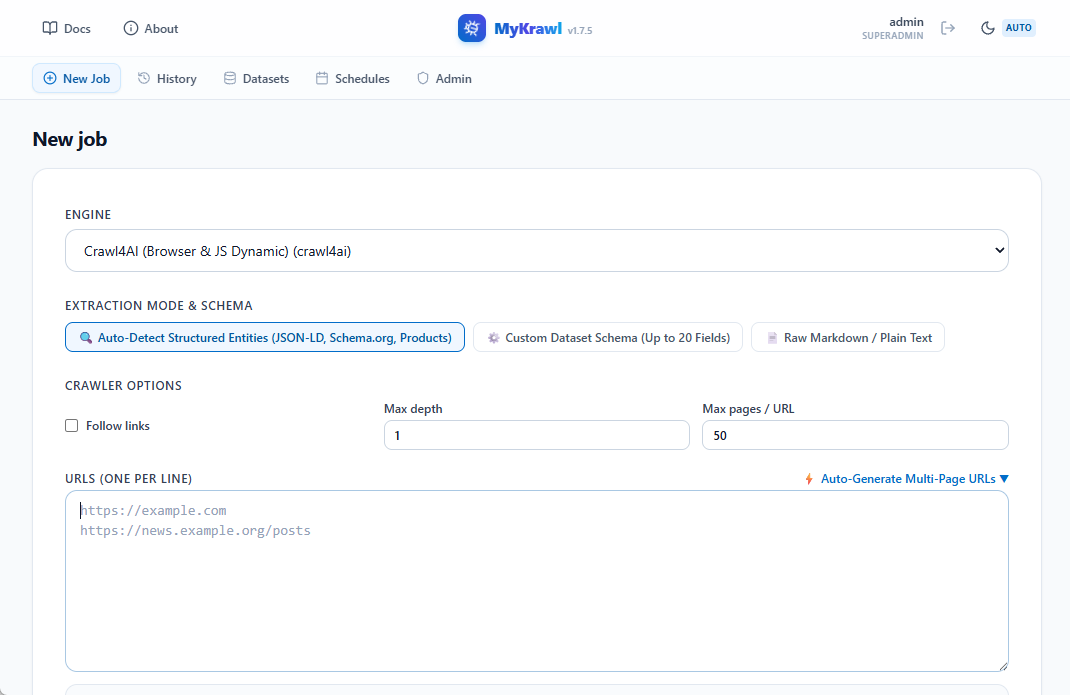
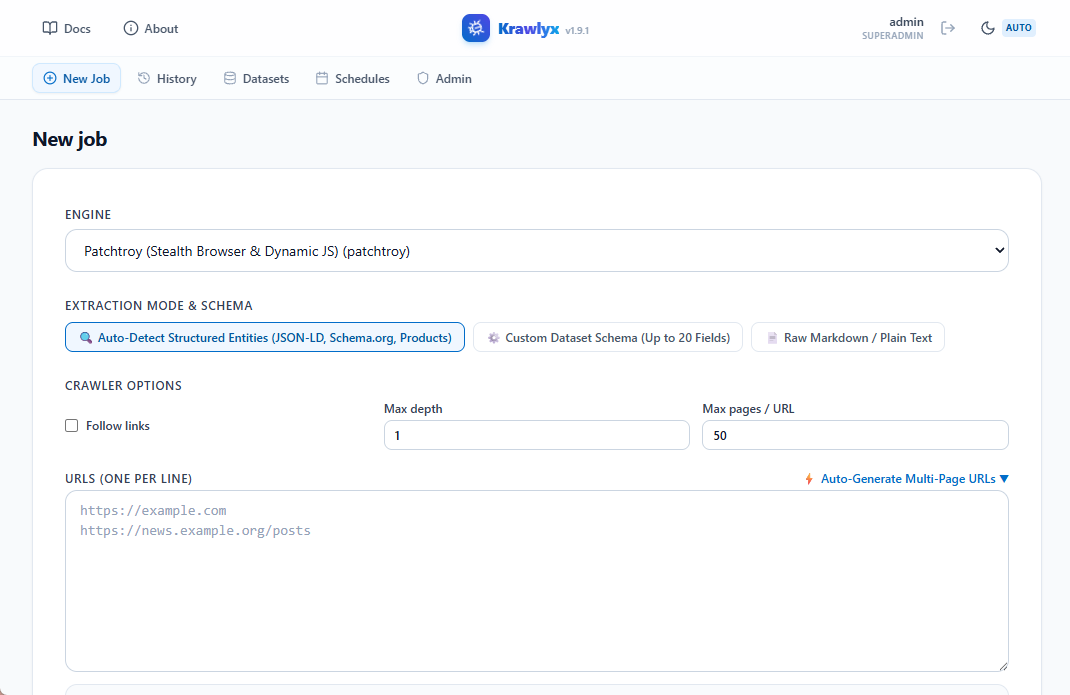
v1.9.1-260902c feat(core): rename database to krawlyx.db, complete branding, and update UI showcase gallery

Changed region(s): [[0.0925, 0.3324, 0.3701, 0.3928], [0.4009, 0.0302, 0.5551, 0.0604]]

diff --git a/frontend/src/components/DatabaseBrowser.tsx b/frontend/src/components/DatabaseBrowser.tsx
@@ -254,7 +254,7 @@ export function DatabaseBrowser() {
               SQLite Database Browser & Engine Terminal
             </h2>
             <p className="text-xs text-slate-600 dark:text-slate-400 mt-0.5 font-mono">
-              {stats?.db_path || 'data/mykrawl.db'}
+              {stats?.db_path || 'data/krawlyx.db'}
             </p>
           </div>
 

diff --git a/scripts/reset_admin_password.py b/scripts/reset_admin_password.py
@@ -1,6 +1,6 @@
 #!/usr/bin/env python3
 """
-MyKrawl SuperAdmin Password Reset Utility
+Krawlyx SuperAdmin Password Reset Utility
 ==========================================
 Emergency tool to reset the password and restore SuperAdmin privileges for the 'admin' account.
 
@@ -30,7 +30,7 @@ def reset_password(username: str, new_password: str | None = None) -> None:
         from app.core.security import hash_password
         from app.models.user import User
     except ImportError as e:
-        print(f"❌ Error importing MyKrawl backend modules: {e}")
+        print(f"❌ Error importing Krawlyx backend modules: {e}")
         print("Please ensure your virtual environment is active: source backend/.venv/bin/activate")
         sys.exit(1)
 
@@ -70,7 +70,7 @@ def reset_password(username: str, new_password: str | None = None) -> None:
 
 
 def main():
-    parser = argparse.ArgumentParser(description="Reset MyKrawl SuperAdmin password.")
+    parser = argparse.ArgumentParser(description="Reset Krawlyx SuperAdmin password.")
     parser.add_argument("password", nargs="?", default=None, help="New password (optional; prompted if omitted)")
     parser.add_argument("--username", default="admin", help="Username to reset (default: 'admin')")
     args = parser.parse_args()

diff --git a/backend/scripts/reset_admin_password.py b/backend/scripts/reset_admin_password.py
@@ -1,6 +1,6 @@
 #!/usr/bin/env python3
 """
-MyKrawl SuperAdmin Password Reset Utility
+Krawlyx SuperAdmin Password Reset Utility
 ==========================================
 Emergency tool to reset the password and restore SuperAdmin privileges for the 'admin' account.
 
@@ -30,7 +30,7 @@ def reset_password(username: str, new_password: str | None = None) -> None:
         from app.core.security import hash_password
         from app.models.user import User
     except ImportError as e:
-        print(f"❌ Error importing MyKrawl backend modules: {e}")
+        print(f"❌ Error importing Krawlyx backend modules: {e}")
         print("Please ensure your virtual environment is active: source backend/.venv/bin/activate")
         sys.exit(1)
 
@@ -76,7 +76,7 @@ def reset_password(username: str, new_password: str | None = None) -> None:
 
 
 def main():
-    parser = argparse.ArgumentParser(description="Reset MyKrawl SuperAdmin password.")
+    parser = argparse.ArgumentParser(description="Reset Krawlyx SuperAdmin password.")
     parser.add_argument(
         "password", nargs="?", default=None, help="New password (optional; prompted if omitted)"
     )

diff --git a/backend/app/core/config.py b/backend/app/core/config.py
@@ -21,7 +21,7 @@ class Settings(BaseSettings):
     app_name: str = "Krawlyx"
     # Required for any real deployment; the default keeps local dev frictionless.
     secret_key: str = "dev-insecure-secret-key"
-    db_path: Path = ROOT_DIR / "data" / "mykrawl.db"
+    db_path: Path = ROOT_DIR / "data" / "krawlyx.db"
     session_ttl_s: int = 60 * 60 * 12
     cookie_secure: bool = False
     admin_user: str | None = None
@@ -43,8 +43,8 @@ class Settings(BaseSettings):
     # is non-empty, only targets whose host matches an entry (suffix
     # match) are accepted. Empty list = block-by-default.
     ssrf_allow_list: list[str] = []
-    # NFR-05: identifiable User-Agent `MyKrawl/0.1 (+{admin_contact_email})`.
-    # Empty contact is allowed — the UA degrades to `MyKrawl/0.1`.
+    # NFR-05: identifiable User-Agent `Krawlyx/0.1 (+{admin_contact_email})`.
+    # Empty contact is allowed — the UA degrades to `Krawlyx/0.1`.
     admin_contact_email: str = ""
 
     @field_validator("ssrf_allow_list", mode="before")

diff --git a/backend/tests/test_exporters.py b/backend/tests/test_exporters.py
@@ -321,7 +321,7 @@ def test_endpoint_probe_writes_and_removes(tmp_path) -> None:
         body = r.json()
         assert body["ok"] is True
         # No probe files left behind.
-        assert not list(tmp_path.glob("MyKrawl_probe_*.txt"))
+        assert not list(tmp_path.glob("Krawlyx_probe_*.txt"))
 
 
 def test_endpoint_probe_reports_permission_failure(tmp_path) -> None:
@@ -340,9 +340,9 @@ def test_endpoint_probe_reports_permission_failure(tmp_path) -> None:
     from tests._helpers import auth_as
 
     if sys.platform == "win32":
-        bad_path = "Z:\\MyKrawl-bad-target\\exports"
+        bad_path = "Z:\\Krawlyx-bad-target\\exports"
     else:
-        bad_path = "/this/path/should/not/exist/MyKrawl-bad-target"
+        bad_path = "/this/path/should/not/exist/Krawlyx-bad-target"
 
     tid = _make_target("bad", path=bad_path, fmt="csv")
 

diff --git a/backend/app/exporters/exporter.py b/backend/app/exporters/exporter.py
@@ -104,7 +104,7 @@ class Exporter:
 
     @property
     def manifest_path(self) -> Path:
-        return self._dir / f"MyKrawl_{self._slug}_{self._ts}_manifest.json"
+        return self._dir / f"Krawlyx_{self._slug}_{self._ts}_manifest.json"
 
     @property
     def parts(self) -> list[Path]:
@@ -258,7 +258,7 @@ class Exporter:
     def _open_new_part(self) -> None:
         self._part_index += 1
         ext = self._fmt
-        filename = f"MyKrawl_{self._slug}_{self._ts}_part{self._part_index:03d}.{ext}"
+        filename = f"Krawlyx_{self._slug}_{self._ts}_part{self._part_index:03d}.{ext}"
         path = self._dir / filename
         try:
             self._writer = self._writer_factory()

diff --git a/backend/tests/test_scrapy_engine.py b/backend/tests/test_scrapy_engine.py
@@ -71,7 +71,7 @@ def test_scrapy_env_uses_configured_values() -> None:
     assert env["MYKRAWL_TARGET_URL"] == "https://example.com/"
     # M6: user_agent comes from the global Settings (NFR-05); engine
     # config user_agent is no longer echoed directly into the env.
-    assert env["MYKRAWL_USER_AGENT"] == "MyKrawl/0.1 via scrapy"
+    assert env["MYKRAWL_USER_AGENT"] == "Krawlyx/0.1 via scrapy"
     assert env["MYKRAWL_CONCURRENCY"] == "4"
     assert env["MYKRAWL_DOWNLOAD_DELAY"] == "1.0"  # M6: admin floor wins
     assert env["MYKRAWL_AUTOTHROTTLE"] == "0"

diff --git a/backend/app/api/export_targets.py b/backend/app/api/export_targets.py
@@ -188,9 +188,9 @@ def test_target(
     try:
         directory = Path(row.path).expanduser().resolve()
         directory.mkdir(parents=True, exist_ok=True)
-        probe = directory / f"MyKrawl_probe_{uuid.uuid4().hex[:8]}.txt"
+        probe = directory / f"Krawlyx_probe_{uuid.uuid4().hex[:8]}.txt"
         probe.write_text(
-            f"MyKrawl probe at {datetime.now(UTC).isoformat(timespec='seconds')}\n",
+            f"Krawlyx probe at {datetime.now(UTC).isoformat(timespec='seconds')}\n",
             encoding="utf-8",
         )
         probe.unlink()

diff --git a/backend/app/core/doctor.py b/backend/app/core/doctor.py
@@ -1,4 +1,4 @@
-"""Environment diagnostic for self-hosters (`python -m mykrawl.doctor`).
+"""Environment diagnostic for self-hosters (`python -m app.core.doctor`).
 
 Runs a short list of read-only checks and prints a one-screen report.
 Exits 0 when everything passes, 1 otherwise. The check list is
@@ -176,7 +176,7 @@ _CHECKS = [
 
 
 def run() -> int:
-    print("MyKrawl doctor")
+    print("Krawlyx doctor")
     print("=" * 40)
     failed = 0
     for fn in _CHECKS:

diff --git a/backend/tests/test_health.py b/backend/tests/test_health.py
@@ -13,5 +13,5 @@ def test_health_reports_status_and_version() -> None:
     assert resp.status_code == 200
     body = resp.json()
     assert body["status"] == "ok"
-    assert body["app"] == "MyKrawl"
+    assert body["app"] == "Krawlyx"
     assert body["version"].startswith("v")

diff --git a/backend/app/__init__.py b/backend/app/__init__.py
@@ -1,1 +1,1 @@
-"""MyKrawl backend application package."""
+"""Krawlyx backend application package."""

diff --git a/docs/0015-production-deployment-guide.md b/docs/0015-production-deployment-guide.md
@@ -13,8 +13,8 @@ This guide details how to deploy **Krawlyx** in production environments, includi
 ### 1-Command Deployment
 1. Clone the repository and navigate to the project root:
    ```bash
-   git clone https://github.com/marcuz-apl/MyKrawl.git
-   cd MyKrawl
+   git clone https://github.com/marcuz-apl/krawlyx.git
+   cd krawlyx
    ```
 2. Copy and configure the environment variables:
    ```bash
@@ -30,7 +30,7 @@ This guide details how to deploy **Krawlyx** in production environments, includi
 ### Inspecting Logs & Health
 ```bash
 # View live application logs
-docker compose logs -f mykrawl
+docker compose logs -f krawlyx
 
 # Check container health status
 docker compose ps
@@ -44,24 +44,24 @@ Deploying Krawlyx on Synology NAS provides automatic restarts, persistent storag
 
 ### Step 1: Storage Setup in File Station
 Create a directory structure on your storage pool:
-- `/volume1/docker/mykrawl`
-- `/volume1/docker/mykrawl/data` (holds `mykrawl.db` and exports)
+- `/volume1/docker/krawlyx`
+- `/volume1/docker/krawlyx/data` (holds `krawlyx.db` and exports)
 
 ### Step 2: Launch via Synology Container Manager
 1. Open **Container Manager** in DSM.
 2. Go to **Project** -> **Create**.
-3. Set Project Name: `mykrawl`.
-4. Path: `/docker/mykrawl`.
+3. Set Project Name: `krawlyx`.
+4. Path: `/docker/krawlyx`.
 5. Source: Select **Create docker-compose.yml** and paste the following:
 
 ```yaml
 services:
-  mykrawl:
+  krawlyx:
     build:
       context: .
       dockerfile: Dockerfile
-    image: mykrawl:latest
-    container_name: mykrawl
+    image: krawlyx:latest
+    container_name: krawlyx
     restart: unless-stopped
     ports:
       - "4040:4040"
@@ -94,7 +94,7 @@ To access Krawlyx securely over the internet without exposing raw ports:
    - **General Tab**:
      - **Source**:
        - Protocol: `HTTPS`
-       - Hostname: `mykrawl.your-domain.com` (or your Synology DDNS: `*.synology.me`)
+       - Hostname: `krawlyx.your-domain.com` (or your Synology DDNS: `*.synology.me`)
        - Port: `443`
        - Enable HSTS: Checked
      - **Destination**:
@@ -104,10 +104,10 @@ To access Krawlyx securely over the internet without exposing raw ports:
    - **Custom Header Tab**:
      - Click **Create** -> **WebSocket**.
      - This automatically adds `Upgrade: $http_upgrade` and `Connection: $connection_upgrade`, which is required for live crawl progress streaming and log views.
-3. Assign a free Let's Encrypt SSL Certificate to `mykrawl.your-domain.com` in **Security** -> **Certificate**.
+3. Assign a free Let's Encrypt SSL Certificate to `krawlyx.your-domain.com` in **Security** -> **Certificate**.
 
 ### Access URLs:
-- **Via HTTPS Reverse Proxy**: `https://mykrawl.your-domain.com`
+- **Via HTTPS Reverse Proxy**: `https://krawlyx.your-domain.com`
 - **Via Local Home Network (Direct LAN)**: `http://<SYNOLOGY_LOCAL_IP>:4040` (e.g. `http://192.168.1.100:4040`)
 
 ---
@@ -115,13 +115,13 @@ To access Krawlyx securely over the internet without exposing raw ports:
 ## 3. Docker Storage & Persistence
 
 The container maps the host directory `./data` to `/app/data`:
-- **`data/mykrawl.db`**: SQLite database storing jobs, schedules, users, and saved datasets.
+- **`data/krawlyx.db`**: SQLite database storing jobs, schedules, users, and saved datasets.
 - **`data/exports/`**: CSV and XLSX export files generated from crawls and datasets.
-- **WAL Journals**: SQLite Write-Ahead Log (`mykrawl.db-wal`) is automatically preserved.
+- **WAL Journals**: SQLite Write-Ahead Log (`krawlyx.db-wal`) is automatically preserved.
 - **Backup Command**:
   ```bash
   # Backup SQLite database cleanly while running:
-  sqlite3 data/mykrawl.db ".backup 'data/backup-$(date +%Y%m%d).db'"
+  sqlite3 data/krawlyx.db ".backup 'data/backup-$(date +%Y%m%d).db'"
   ```
 
 ---
@@ -148,7 +148,7 @@ For non-containerized Linux hosts:
    playwright install-deps chromium
    ```
 
-3. **Create Systemd Unit (`/etc/systemd/system/mykrawl.service`)**:
+3. **Create Systemd Unit (`/etc/systemd/system/krawlyx.service`)**:
    ```ini
    [Unit]
    Description=Krawlyx Web Scraping Workbench
@@ -157,9 +157,9 @@ For non-containerized Linux hosts:
    [Service]
    Type=simple
    User=www-data
-   WorkingDirectory=/var/www/MyKrawl/backend
-   EnvironmentFile=/var/www/MyKrawl/.env
-   ExecStart=/var/www/MyKrawl/backend/.venv/bin/uvicorn app.main:app --host 0.0.0.0 --port 4040
+   WorkingDirectory=/var/www/krawlyx/backend
+   EnvironmentFile=/var/www/krawlyx/.env
+   ExecStart=/var/www/krawlyx/backend/.venv/bin/uvicorn app.main:app --host 0.0.0.0 --port 4040
    Restart=always
    RestartSec=5
 
@@ -170,7 +170,7 @@ For non-containerized Linux hosts:
 4. **Enable & Start**:
    ```bash
    sudo systemctl daemon-reload
-   sudo systemctl enable --now mykrawl
+   sudo systemctl enable --now krawlyx
    ```
 
 ---
@@ -181,16 +181,16 @@ For non-containerized Linux hosts:
 ```nginx
 server {
     listen 80;
-    server_name mykrawl.example.com;
+    server_name krawlyx.example.com;
     return 301 https://$host$request_uri;
 }
 
 server {
     listen 443 ssl http2;
-    server_name mykrawl.example.com;
+    server_name krawlyx.example.com;
 
-    ssl_certificate /etc/letsencrypt/live/mykrawl.example.com/fullchain.pem;
-    ssl_certificate_key /etc/letsencrypt/live/mykrawl.example.com/privkey.pem;
+    ssl_certificate /etc/letsencrypt/live/krawlyx.example.com/fullchain.pem;
+    ssl_certificate_key /etc/letsencrypt/live/krawlyx.example.com/privkey.pem;
 
     location / {
         proxy_pass http://127.0.0.1:4040;
@@ -211,7 +211,7 @@ server {
 
 ### Caddy Example
 ```caddy
-mykrawl.example.com {
+krawlyx.example.com {
     reverse_proxy 127.0.0.1:4040 {
         flush_interval -1
     }
